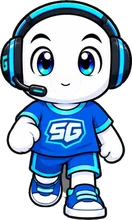
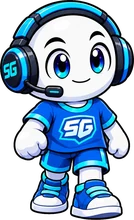
Jeu Spirit : Spirit redessiné en volume (marche et objet brandi)
Claude-Session: https://claude.ai/code/session_01H9Lthdyi4Yt8UdeFU5WNwb

diff --git a/jeu-spirit/outils/preparer_assets.py b/jeu-spirit/outils/preparer_assets.py
@@ -12,19 +12,19 @@ ECHELLE = 2  # les images sont stockées en double résolution pour les écrans 
 # nom: (fichier source, 'h' ou 'w', taille affichée en pixels logiques, options)
 LISTE = {
     # Spirit
-    'spirit-face': ('spirit/spirit_face.png', 'h', 112, 'bouche'),
-    'spirit-face-g': ('spirit/marche-face-pas-gauche.png', 'h', 110, 'bouche'),
-    'spirit-face-d': ('spirit/marche-face-pas-droit.png', 'h', 110, 'bouche'),
-    'spirit-dos': ('spirit/spirit_dos.png', 'h', 112, ''),
-    'spirit-dos-g': ('spirit/marche-dos-pas-gauche.png', 'h', 110, ''),
-    'spirit-dos-d': ('spirit/marche-dos-pas-droit.png', 'h', 110, ''),
-    'spirit-profil': ('spirit/marche-profil-passage.png', 'h', 112, 'bouche-profil'),
-    'spirit-profil-a': ('spirit/marche-profil-foulee-a.png', 'h', 107, 'bouche-profil'),
-    'spirit-profil-b': ('spirit/marche-profil-foulee-b.png', 'h', 107, 'bouche-profil'),
+    'spirit-face': ('spirit-v2/face.png', 'h', 112, ''),
+    'spirit-face-g': ('spirit-v2/face-g.png', 'h', 110, ''),
+    'spirit-face-d': ('spirit-v2/face-d.png', 'h', 110, ''),
+    'spirit-dos': ('spirit-v2/dos.png', 'h', 112, ''),
+    'spirit-dos-g': ('spirit-v2/dos-g.png', 'h', 110, ''),
+    'spirit-dos-d': ('spirit-v2/dos-d.png', 'h', 110, ''),
+    'spirit-profil': ('spirit-v2/profil.png', 'h', 112, ''),
+    'spirit-profil-a': ('spirit-v2/profil-a.png', 'h', 107, ''),
+    'spirit-profil-b': ('spirit-v2/profil-b.png', 'h', 107, ''),
     'spirit-attaque-face': ('spirit/attaque-face.png', 'h', 110, ''),
     'spirit-attaque-dos': ('spirit/attaque-dos.png', 'h', 110, ''),
     'spirit-attaque-profil': ('spirit/attaque-profil.png', 'h', 110, ''),
-    'spirit-brandit': ('spirit/brandit-mains-vides.png', 'h', 130, ''),
+    'spirit-brandit': ('spirit-v2/brandit.png', 'h', 128, ''),
     'portrait-spirit': ('spirit/portrait-bouche-fermee.png', 'h', 200, ''),
     'portrait-spirit-parle': ('spirit/portrait-bouche-ouverte.png', 'h', 200, ''),
     # Personnages
